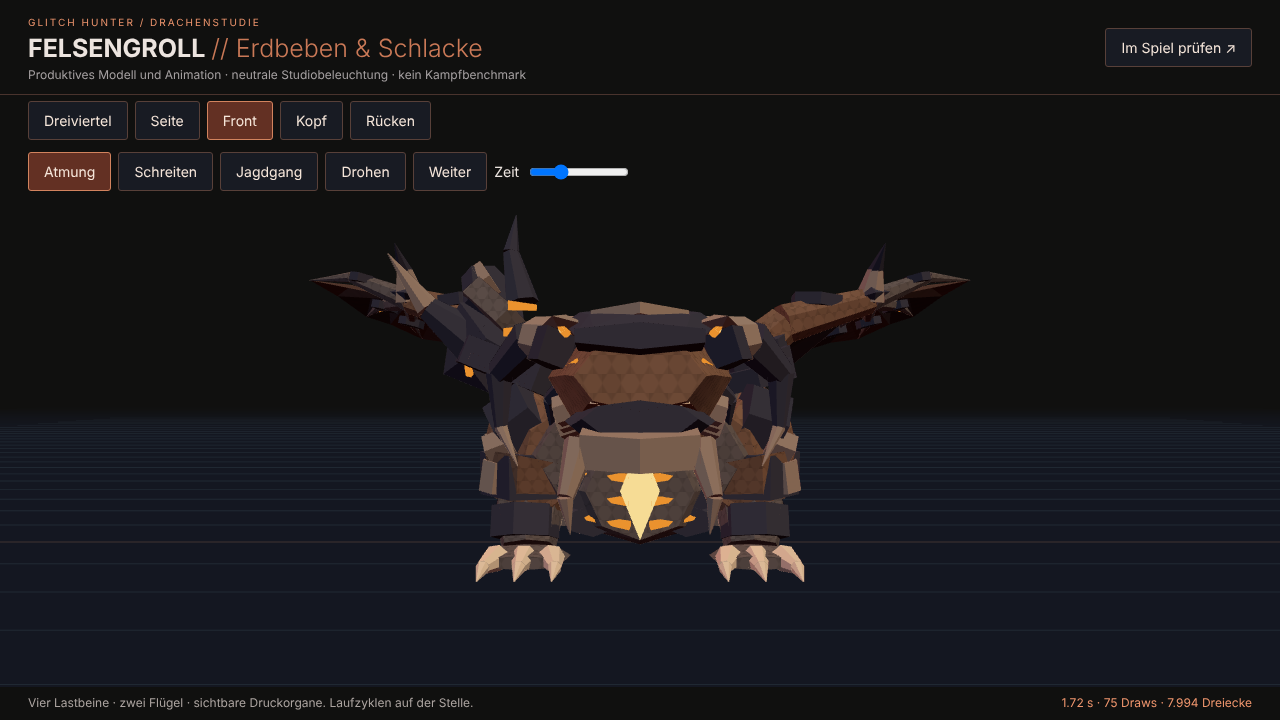
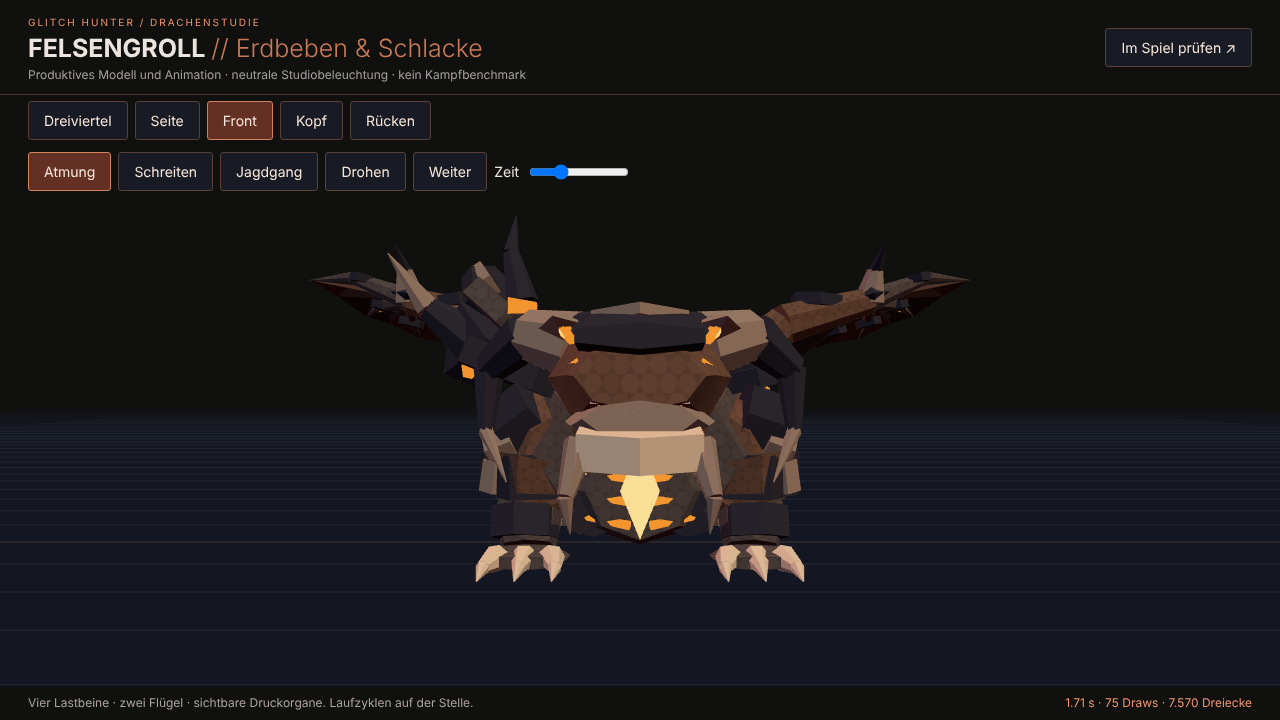
Felsengroll: Modell-Feinschliff, Design 'Festung statt Jäger' (drei Drachen klar getrennt)
Claude-Session: https://claude.ai/code/session_01SYetDBMZ4okz8hqMiTsqmo

diff --git a/src/game/monsters/felsengrollRig.js b/src/game/monsters/felsengrollRig.js
@@ -7,9 +7,9 @@ export const FELS_SCALE = 1.85;
 const BODY_Y = 1.3;
 const D = Math.PI / 180;
 const SIDES = [[1, 'L'], [-1, 'R']];
-const C = { hide: '#5c534d', muscle: '#74553f', armor: '#34333c', edge: '#8a7765', bone: '#cdbb9b', membrane: '#352a29', panel: '#4b372d', hot: '#ff7a1c', core: '#ffd264' };
-const HOT_DIM = new THREE.Color('#9a3a0c'), HOT_BRIGHT = new THREE.Color('#ffa535');
-const CORE_DIM = new THREE.Color('#d98f35'), CORE_BRIGHT = new THREE.Color('#fff0a8');
+const C = { hide: '#4e4641', muscle: '#664a38', armor: '#2a2930', edge: '#8a7765', bone: '#cdbb9b', membrane: '#352a29', panel: '#4b372d', hot: '#ff7a1c', core: '#ffd264' };
+const HOT_DIM = new THREE.Color('#c4500f'), HOT_BRIGHT = new THREE.Color('#ffa535');
+const CORE_DIM = new THREE.Color('#e8a040'), CORE_BRIGHT = new THREE.Color('#fff0a8');
 
 /** Erdbeben- & Schlacke-Elder: low, heavy basalt quadruped. Same articulation contract as buildPyrostur. */
 export function buildFelsengroll() {
@@ -70,7 +70,7 @@ export function buildFelsengroll() {
       const z = 1.05 - i * .45, w = 1.5 - Math.abs(i - 2) * .06;
       col('body', body, C.armor, [s * w, .42 - i * .02, z], [.38, .5, .27], [0, s * .2, s * 1.1 + .15]);
       col('body', body, C.edge, [s * (w + .2), .12 - i * .02, z + .02], [.2, .32, .2], [0, s * .1, s * 1.2]);
-      bone('body', body, C.hot, [s * (w + .05), .62, z - .22], [s * (w + .28), -.18, z - .22], .045, .03, 4);
+      bone('body', body, C.hot, [s * (w + .05), .75, z - .22], [s * (w + .3), -.3, z - .22], .09, .06, 4);
     }
   }
   // Back: broad plated saddle with glowing cracks between the slabs.
@@ -78,11 +78,11 @@ export function buildFelsengroll() {
     const z = 1.2 - i * .38, wx = .95 - Math.abs(i - 3) * .05;
     col('body', body, C.armor, [0, .95 - i * .02, z], [wx, .2 + (i % 2) * .05, .17], [0, .1 * (i % 3 - 1), 0]);
     col('body', body, C.edge, [0, 1.13 - i * .02, z + .02], [wx * .55, .09, .12]);
-    bone('body', body, C.hot, [-wx * .9, 1.05 - i * .02, z - .2], [wx * .9, 1.05 - i * .02, z - .2], .035, .035, 4);
+    bone('body', body, C.hot, [-wx * 1.0, 1.06 - i * .02, z - .19], [wx * 1.0, 1.06 - i * .02, z - .19], .08, .08, 4);
     plate('body', body, C.armor, [0, 1.32 - i * .03, z], [.16, .26, .2]);
   }
   // Left shoulder: modest basalt cap so the right side reads as the broken-off heavy part.
-  for (let i = 0; i < 3; i++) col('body', body, C.armor, [1.35 + i * .06, .88 + i * .17, .55 - i * .1], [.55 - i * .1, .24, .5 - i * .08], [0, .3 * i, .25]);
+  for (let i = 0; i < 2; i++) col('body', body, C.armor, [1.35 + i * .06, .88 + i * .17, .55 - i * .1], [.55 - i * .1, .24, .5 - i * .08], [0, .3 * i, .25]);
 
   const chest = joint('chest', body, 0, -.3, 1.2);
   loft('chest', chest, C.hide, [[0, -.05, -.2, .82, .6], [0, .02, .25, .88, .64], [0, 0, .55, .55, .5]]);
@@ -117,8 +117,8 @@ export function buildFelsengroll() {
   col('shoulder', shoulder, C.hide, [-.4, .78, -.18], [.62, .27, .52], [-.1, .2, -.78]);
   col('shoulder', shoulder, C.armor, [-.55, 1.06, -.3], [.46, .24, .4], [.12, -.6, -.95]);
   col('shoulder', shoulder, C.edge, [-.62, 1.28, -.34], [.26, .13, .24], [0, .1, -1.0]);
-  for (const [y, w, r] of [[.28, .86, .3], [.62, .76, .25], [.92, .56, .2]]) bone('shoulder', shoulder, C.hot, [-.05 - w * .35, y, .52 - r], [-.1 + w * .32, y - .02, .52 - r - .08], .06, .04, 4);
-  bone('shoulder', shoulder, C.hot, [-.8, .1, -.05], [-.95, .55, -.35], .05, .03, 4);
+  for (const [y, w, r] of [[.28, .86, .3], [.62, .76, .25], [.92, .56, .2]]) bone('shoulder', shoulder, C.hot, [-.05 - w * .35, y, .52 - r], [-.1 + w * .32, y - .02, .52 - r - .08], .1, .07, 4);
+  bone('shoulder', shoulder, C.hot, [-.8, .1, -.05], [-.95, .55, -.35], .09, .06, 4);
   horn('shoulder', shoulder, [C.armor, C.edge], [[-.75, .5, 0], [-1.25, .9, .1], [-1.7, 1.55, .12]], .3);
   horn('shoulder', shoulder, C.armor, [[-.2, 1.0, -.4], [-.35, 1.65, -.55], [-.3, 2.15, -.7]], .22);
   plate('shoulder', shoulder, C.armor, [-.9, .3, -.5], [.4, .5, .35], [0, 0, .5]);
@@ -128,9 +128,8 @@ export function buildFelsengroll() {
   loft('body', neck, C.muscle, [[0, .0, -.2, .85, .72], [0, .22, .25, .75, .68], [0, .32, .8, .66, .58], [0, .25, 1.3, .6, .5]]);
   for (let i = 0; i < 4; i++) {
     const z = i * .3;
-    col('body', neck, C.armor, [0, .8 - i * .06, z], [.6 - i * .05, .2, .15]);
+    if (i % 2 === 0) col('body', neck, C.armor, [0, .8 - i * .06, z], [.6 - i * .05, .2, .15]);
     bone('body', neck, C.hot, [-.4, .7 - i * .06, z - .13], [.4, .7 - i * .06, z - .13], .03, .03, 4);
-    for (const [s] of SIDES) col('body', neck, C.edge, [s * (.7 - i * .02), .15, z], [.16, .4, .16], [0, s * .2, s * 1.3]);
   }
   const head = joint('head', neck, 0, .3, 1.2);
   loft('head', head, C.muscle, [[0, 0, -.5, .65, .55], [0, .05, 0, .88, .62], [0, -.03, .6, .72, .46], [0, -.1, 1.1, .6, .34], [0, -.16, 1.42, .5, .27]]);
@@ -140,18 +139,16 @@ export function buildFelsengroll() {
   bone('head', head, C.hot, [-.4, .5, .0], [.4, .5, .0], .04, .04, 4);
   for (const [s] of SIDES) {
     // Crown horns sweep out and curl DOWN past the cheeks.
-    horn('head', head, [C.edge, C.armor, C.armor, C.edge], [[s * .6, .38, -.15], [s * 1.1, .52, -.45], [s * 1.5, .22, -.8], [s * 1.5, -.35, -.9], [s * 1.28, -.78, -.7]], .3);
-    horn('head', head, C.armor, [[s * .55, .15, -.4], [s * .95, -.05, -.9], [s * .98, -.45, -1.25]], .2);
-    col('head', head, C.armor, [s * .72, .22, .35], [.22, .3, .5], [0, s * .2, s * .3]);
+    horn('head', head, [C.edge, C.armor, C.armor, C.edge], [[s * .6, .38, -.15], [s * 1.15, .55, -.4], [s * 1.6, .25, -.7], [s * 1.62, -.4, -.7], [s * 1.35, -.95, -.45]], .34);
     plate('head', head, C.edge, [s * .66, .42, .5], [.25, .12, .45], [0, s * .15, 0]);
-    plate('head', head, C.hot, [s * .64, .32, .78], [.05, .05, .2], [0, s * .2, 0]);
-    plate('head', head, C.core, [s * .66, .32, .86], [.025, .03, .08], [0, s * .2, 0]);
+    plate('head', head, C.hot, [s * .6, .3, .74], [.09, .08, .3], [0, s * .2, 0]);
+    plate('head', head, C.core, [s * .64, .3, .86], [.045, .05, .13], [0, s * .2, 0]);
     for (let i = 0; i < 5; i++) bone('head', head, C.bone, [s * (.45 - i * .035), -.22, .35 + i * .22], [s * (.43 - i * .03), -.42, .38 + i * .22], .05, .006, 5);
     bone('head', head, C.hot, [s * .62, .05, .6], [s * .5, .0, 1.2], .035, .02, 4); // slag seam along snout
   }
   const jaw = joint('jaw', head, 0, -.28, -.02);
-  loft('head', jaw, C.armor, [[0, 0, -.3, .55, .17], [0, -.1, .4, .68, .22], [0, -.16, 1.05, .56, .2], [0, -.12, 1.45, .44, .14]]);
-  col('head', jaw, C.edge, [0, -.34, 1.38], [.52, .26, .3], [0.2, 0, 0]); // heavy chin ram
+  loft('head', jaw, C.edge, [[0, 0, -.3, .55, .17], [0, -.1, .4, .68, .22], [0, -.16, 1.05, .56, .2], [0, -.12, 1.45, .44, .14]]);
+  col('head', jaw, C.bone, [0, -.34, 1.38], [.55, .28, .32], [0.2, 0, 0]); // heavy chin ram
   for (const [s] of SIDES) {
     horn('head', jaw, C.edge, [[s * .45, -.3, 1.4], [s * .55, -.7, 1.55], [s * .52, -.98, 1.5]], .13);
     for (let i = 0; i < 5; i++) bone('head', jaw, C.bone, [s * (.5 - i * .04), .0, .35 + i * .24], [s * (.47 - i * .035), .17, .35 + i * .24], .05, .006, 5);
@@ -238,11 +235,12 @@ export function buildFelsengroll() {
   for (const [x, y, z, len] of spikes) {
     const d = new THREE.Vector3(x, y, z + .9).normalize(), q = new THREE.Quaternion().setFromUnitVectors(new THREE.Vector3(0, 1, 0), d);
     const e = new THREE.Euler().setFromQuaternion(q);
-    plate('club', club, C.hot, [x * .6, y * .6, z * .7 - .2], [.2, len * .75, .2], [e.x, e.y, e.z]);
+    plate('club', club, C.hot, [x * .6, y * .6, z * .7 - .2], [.26, len * .85, .26], [e.x, e.y, e.z]);
     plate('club', club, C.armor, [x * .55, y * .55, z * .7 - .2], [.27, len * .5, .27], [e.x, e.y, e.z]);
   }
   plate('club', club, C.core, [0, .1, -.95], [.32, .5, .32]);
-  bone('club', club, C.hot, [0, 0, -.1], [0, 0, -.5], .22, .3, 6);
+  bone('club', club, C.hot, [0, 0, -.1], [0, 0, -.5], .3, .38, 6);
+  club.scale.setScalar(1.3);
 
   for (const b of batches.values()) { const mesh = new THREE.Mesh(mergeGeometries(b.list), b.mat); b.parent.add(mesh); partMeshes[b.part].push(mesh); for (const g of b.list) g.dispose(); }
   const seamMats = [...materials].filter(([k]) => k.endsWith(`/${C.hot}/true`)).map(([, m]) => m);

diff --git a/tools/felsengroll-design-review.html b/tools/felsengroll-design-review.html
@@ -25,7 +25,7 @@ const fill=new THREE.DirectionalLight('#5b8dcc',1);fill.position.set(-10,4,8);sc
 const ground=new THREE.Mesh(new THREE.PlaneGeometry(150,150),new THREE.MeshLambertMaterial({color:'#121924'}));ground.rotation.x=-Math.PI/2;ground.position.y=-.06;scene.add(ground);
 const grid=new THREE.GridHelper(100,50,'#3f3230','#202832');grid.position.y=-.045;scene.add(grid);
 const rig=buildFelsengroll();scene.add(rig.root);const camera=new THREE.PerspectiveCamera(38,1,.1,150);
-const views={three:[[10,5.5,14],[0,2.2,-1]],side:[[17,3.5,0],[0,2.4,-1]],front:[[0,4,17],[0,2.4,0]],head:[[5,3.5,9],[0,2.6,3.5]],back:[[-18,9,-24],[0,2,-1]]};
+const views={three:[[10,5.5,14],[0,2.2,-1]],side:[[21,3.5,0],[0,2.4,-2]],front:[[0,4,17],[0,2.4,0]],head:[[5,3.5,9],[0,2.6,3.5]],back:[[-18,9,-24],[0,2,-1]]};
 let active='idle',view='three',paused=false,t=0,last=performance.now();
 const model={alive:true,mesh:rig.root,time:0,vel:{x:0,z:0},pos:new THREE.Vector3(),rot:0,gait:0,quake:65,phase:1,state:'combat',nodes:rig.nodes,extra:rig.extra,ctx:{scene,bus:{emit(){}}},target:{pos:{x:0,z:20}}};
 let fire=null;

diff --git a/tests/unit/felsengrollRig.test.js b/tests/unit/felsengrollRig.test.js
@@ -18,7 +18,7 @@ describe('Felsengroll elder rig', () => {
     expect(FELS_SCALE).toBeGreaterThan(1.5);
     const py = buildPyrostur(); py.root.updateMatrixWorld(true);
     const ps = new THREE.Box3().setFromObject(py.root).getSize(new THREE.Vector3());
-    expect(size.x).toBeLessThan(ps.x); expect(size.y).toBeLessThan(9); expect(size.y / size.x).toBeLessThan(.5);
+    expect(size.x).toBeLessThan(ps.x); expect(size.y).toBeLessThan(9); expect(size.y / size.x).toBeLessThan(.55);
     expect(size.x).toBeGreaterThan(10);
     for (const list of Object.values(r.partMeshes)) expect(list.length).toBeGreaterThan(0);
   });

diff --git a/docs/FELSENGROLL_ELDER_REWORK.md b/docs/FELSENGROLL_ELDER_REWORK.md
@@ -1,5 +1,54 @@
 # Felsengroll: Elder-Umbau nach Pyrostur-Standard
 
+> **Owner-Steuerung (gilt vorrangig):** Die drei Drachen müssen sich in Verhalten und
+> Fähigkeiten klar unterscheiden, nicht nur in Look und Effekten. Der frühere Entwurf
+> unten (Leiste → Raserei → Ablass, Vorhalten) kopierte Pyrosturs Kampfschleife und ist
+> durch den Abschnitt **„Festung statt Jäger“** ersetzt. Gleich bleibt nur die Qualitätslatte
+> (Fairness, Determinismus, Tests, Elder-Look, Endgame-Härte).
+
+## Drei Drachen, drei Kämpfe
+
+| | Pyrostur | **Felsengroll** | Voltiris (geplant) |
+|---|---|---|---|
+| Rolle | Jäger: verfolgt dich | **Festung: beherrscht sein Revier** | Trickser: weicht dir aus |
+| Tempo | ~20 Angriffe/min, kurze Ansagen | **~12/min, wuchtig, riesige Flächen** | Salven + Teleports, du musst ihn stellen |
+| Kernschleife | Druck → Glutrausch → Ablass/Brustkonter | **Panzer → Säulen-Crash → Kern bloß** | Ladung auf dem Jäger → Entladung, echter Körper vs. Nachbilder |
+| Gelände | brennender Boden | **beschwört Felssäulen (Deckung + Crash-Ziel), zertrümmert sie** | Blitzraster, Bahnen |
+| Gegen Fernkampf | Vorhalten, Lanzen | **arenaweite Bebenrhythmen, Deckung nötig** | er ist selbst der Fernkämpfer |
+| Spieler-Aufgabe | Ausweichen unter Dauerverfolgung | **Rollen in Säulen locken, Deckung nutzen** | lesen, jagen, Raster verlassen |
+
+## Festung statt Jäger (verbindlich)
+
+1. **Panzer statt Druckleiste.** `m.armor` 0–100. Gepanzert: alle Teile außer Kopf ×0,55,
+   praktisch kein Zucken (Superrüstung), regeneriert langsam (~3/s außerhalb von Angriffen).
+   Panzer < 30: Nähte glühen offen, normale Faktoren.
+2. **Felssäulen** (eigene Entitäten in `m.extra.pillars`, nur aus `all`-Ereignissen,
+   max. 6, ~25 s Lebensdauer):
+   - *Säulenbruch* lässt 3–4 Säulen in Linie oder Bogen aufbrechen (Aufbruch trifft).
+   - *Meteor* setzt bei der Landung einen Säulenkranz.
+   - **Deckung:** Bebenringe, Felsbrocken und Schlackespucke treffen niemanden, der hinter
+     einer Säule steht (Säule zwischen Einschlag/Zentrum und Jäger).
+   - Keulenwirbel, Ramme und Weltenbruch **zertrümmern** Säulen in Reichweite. Er nimmt dir
+     aktiv die Deckung.
+3. **Crash = Hauptkonter.** Trifft sein Rollangriff (oder die Ramme) eine Säule
+   (Host-Entscheidung, Unterbrechung wird synchronisiert): Die Säule zerbricht, er
+   überschlägt sich, 3,5 s Taumeln, Panzer −60, danach 8 s **Kern bloß** (Brust/Nähte
+   Faktor ×1,6). Schulterbruch während der Rolle erzeugt ebenfalls einen Crash. Die
+   Säulen glühen kurz auf, wenn er eine Rolle auf sie ausrichtet (lesbar).
+4. **Revier statt Verfolgung.** Bevorzugt 6–12 m, läuft nicht hinterher. Distanz
+   überbrückt er mit Rollangriff (bis 3 Kurven, jede neu ausgerichtet, aber **ohne**
+   Vorhalten), Sprungstampf und Bebenlinien. Kein `aimTarget`.
+5. **Bebenrhythmus gegen Fernkampf.** Stampfer, Beben und Landungen senden Bebenringe bis
+   ~24 m (Knock `down`). Wer fern steht, muss den Rhythmus rollen oder Säulen-Deckung
+   nutzen. Felswurf: hohe Bögen auf feste Punkte. Glutlanzen-artige Schnellprojektile gibt
+   es nicht.
+6. **Letzter Zustand „Lavaader“:** schnellere Panzer-Regeneration, Säulen speien beim
+   Entstehen Schlacke. Ultimate *Weltenbruch*: Er gräbt sich ein, die Arena bricht in
+   Sektoren (Tortenstücke), die nacheinander rotierend ausbrechen. Säulen schützen,
+   werden dabei aber zerstört. Bewusst **keine** Ringe-Supernova wie bei Pyrostur.
+
+Schaden pro Treffer auf Pyrostur-Skala, aber eher am oberen Ende (wuchtig).
+
 Owner-Vorgabe: Pyrosturs Niveau und Look (docs/PYROSTUR_ELDER_REWORK.md, Abschnitt
 „Kampf-Neustart“) sind das Vorbild für alle Drachen. Felsengroll ist der zweite.
 Gleiche Säulen, eigenes Thema: **Beben und Schlacke**. Pyrostur ist der agile Jäger,
